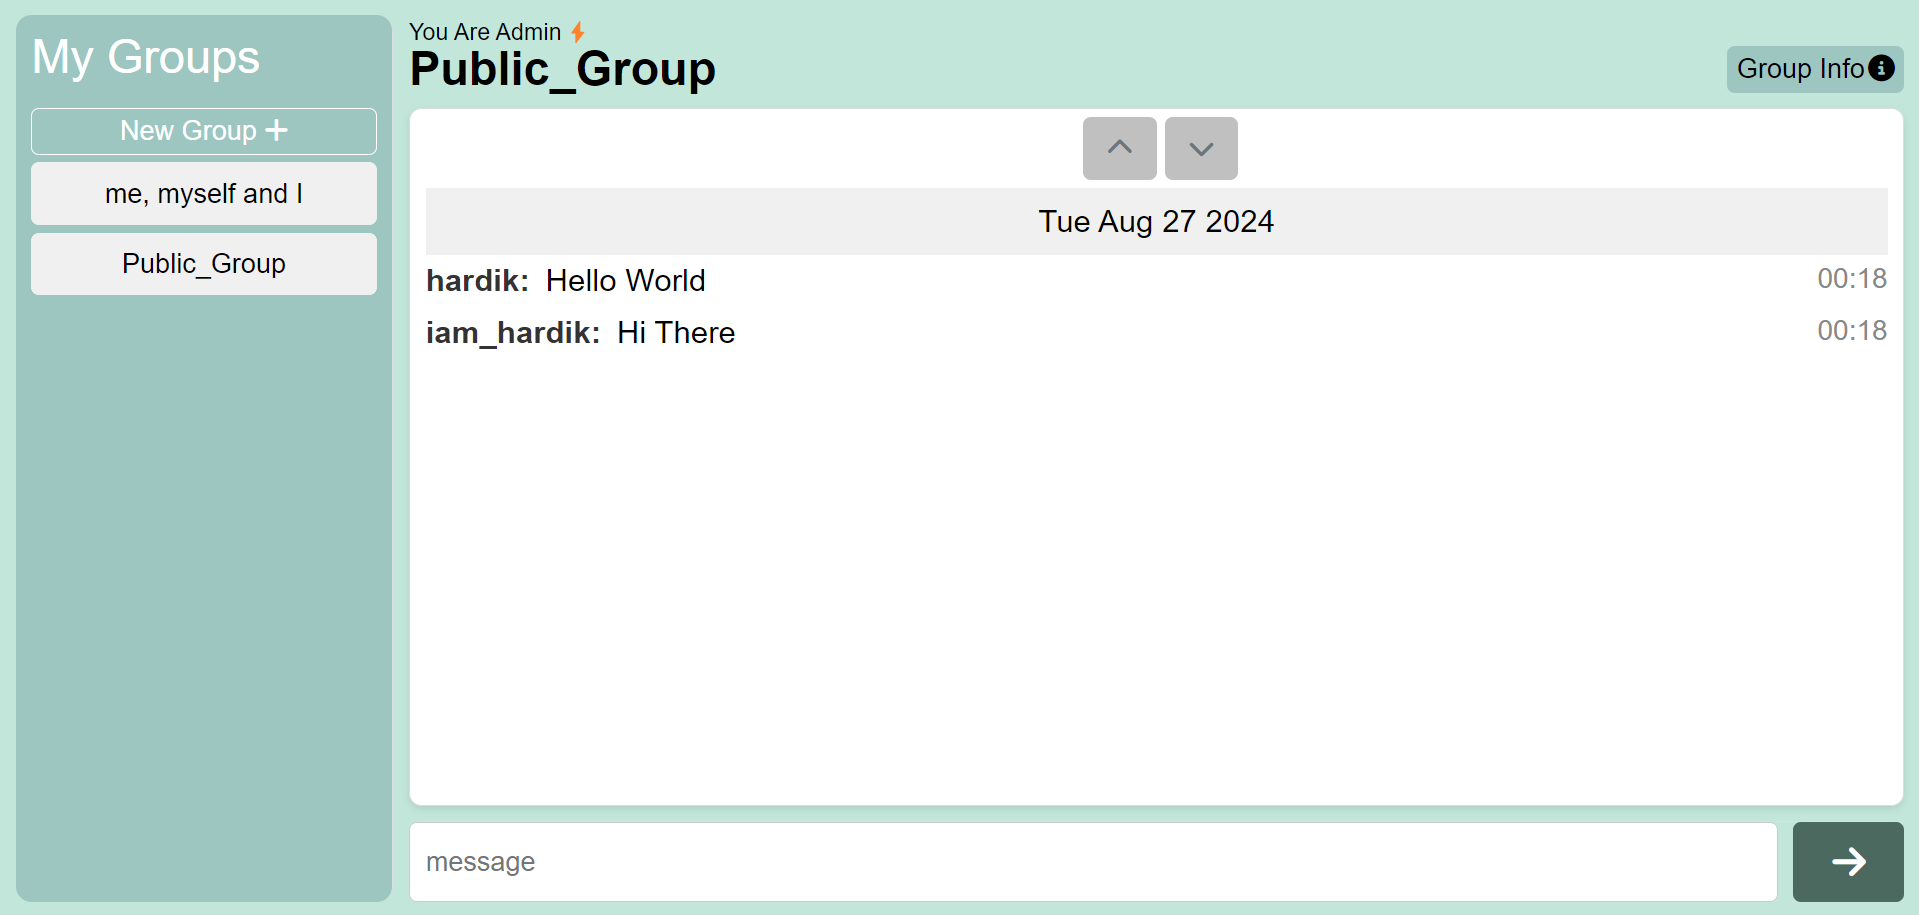
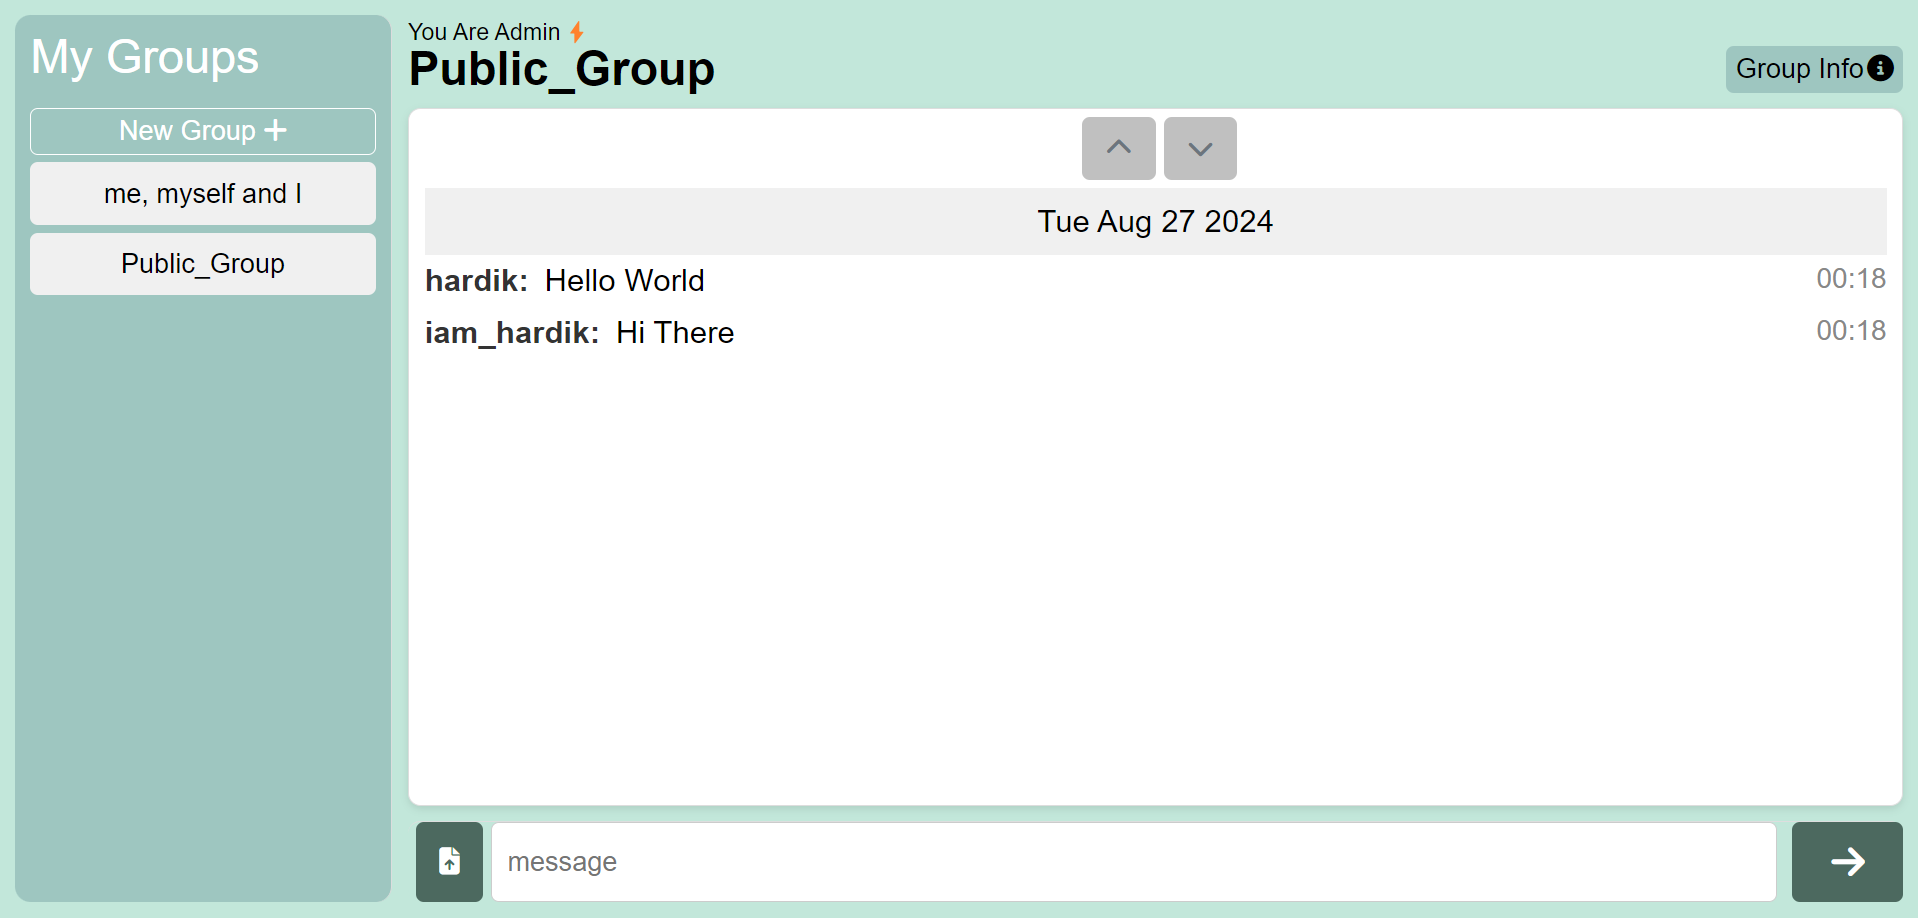
s3 upload functionality for multimedia chat aws-prod

diff --git a/views/chat_views/chat.js b/views/chat_views/chat.js
@@ -240,11 +240,22 @@ function display_messages(messages){
         const time = message.created_at.slice(-5)//extracting only time
         const message_div = document.createElement('div')
         message_div.id = 'message'
-        message_div.innerHTML = `
+
+        // Check if it's a URL
+        if(is_s3_url(message.message)){
+            const media_type = get_media_type(message.message)
+            message_div.innerHTML = `
+                <span class="username">${message.username}: </span>
+                <span class="text"><a href=${message.message} rel="noopener noreferrer" target="_blank">${media_type}</a></span>
+                <span class="timestamp">${time}</span>
+            `
+        }else{
+            message_div.innerHTML = `
                 <span class="username">${message.username}: </span>
                 <span class="text">${message.message}</span>
                 <span class="timestamp">${time}</span>
             `
+        }
         chat_container.appendChild(message_div)
     })
 }
@@ -298,4 +309,76 @@ function handle_message_submit(event){
 
     //clear the text box
     document.getElementById('message').value = ''
+}
+
+function is_s3_url(message){
+    // Regex pattern to match S3 URLs
+    const s3_url_pattern = /^https:\/\/s3\.[a-z0-9.-]+\.amazonaws\.com\/.+/
+    
+    // Check if the message matches the S3 URL pattern
+    return s3_url_pattern.test(message)
+}
+
+function get_media_type(url){
+    const extension = url.split('.').pop().toLowerCase()
+    if(['jpg', 'jpeg', 'png', 'gif'].includes(extension)){
+      return 'image'
+    }else if (['mp4', 'webm', 'ogg'].includes(extension)){
+      return 'video'
+    }else if (['mp3', 'wav', 'ogg'].includes(extension)){
+      return 'audio'
+    }
+    return 'unknown'
+}
+
+document.getElementById('upload-file').addEventListener('click', function(){
+    document.getElementById('file_input').click()
+})
+
+// checking for file upload
+const file_input = document.getElementById('file_input')
+file_input.addEventListener('change', handle_file_change)
+
+function handle_file_change(){
+    if(file_input.files.length > 0){
+        const file = file_input.files[0]
+        upload_file(file)
+        .then(file_url=>{
+            socket.send(JSON.stringify({ file_url: file_url }))
+        })
+        .catch(err => console.error('Error uploading file:', err))
+    }
+}
+
+function upload_file(file){
+    const groupId = JSON.parse(localStorage.getItem('group_details')).id 
+    const form_data = new FormData()
+    form_data.append('file', file)
+
+    return fetch(`http://13.233.233.15:3000/upload-file?groupId=${groupId}`, {
+        method: 'POST',
+        headers: {
+            'Authorization': localStorage.getItem('token')
+        },
+        body: form_data
+    }).then(response=>{
+        // Check if response status is successful
+        if(response.ok){
+            return response.json() // Parse JSON response
+        }else{
+            // Handle different response statuses
+            return response.json().then(error=>{
+                throw { status: response.status, ...error } // Throw an error with status code and message
+            })
+        }
+    }).then(data=>{
+        fetch_messages()
+    }).catch(err=>{
+        if(err.status === 500){
+            alert("Server Error, Error Code: " + err.status)
+        }else{
+            alert("An unexpected error occurred")
+        }
+        console.log(err)
+    })
 }

diff --git a/index.js b/index.js
@@ -23,6 +23,67 @@ const server = http.createServer(app)
 // Set up WebSocket server
 const wss = new WebSocket.Server({ server })
 
+const multer = require('multer')
+const AWS = require('aws-sdk')
+const fs = require('fs')
+const { verify_jwt_token } = require('./util/jwt')
+const get_date_time = require('./util/date_time_now')
+const { post_message_service } = require('./services/chat_service')
+require('dotenv').config()
+
+// Configure multer for file uploads
+const upload = multer({ dest: 'uploads/' }) // Temporarily save files to 'uploads/' folder
+
+// Configure AWS S3
+const s3 = new AWS.S3({
+    accessKeyId: process.env.AWS_ACCESS_KEY_ID,
+    secretAccessKey: process.env.AWS_ACCESS_SECRET_KEY,
+})
+
+app.post('/upload-file', upload.single('file'), (req, res) => {
+    const userId = verify_jwt_token(req.headers.authorization)
+    const file = req.file
+    if (!file) {
+        return res.status(400).send({ error : 'No file uploaded.'})
+    }
+
+    // Upload to S3
+    const fileStream = fs.createReadStream(file.path)
+    const uploadParams = {
+        Bucket: process.env.BUCKET,
+        Body: fileStream,
+        Key: file.originalname // or a unique key for each file
+    }
+
+    s3.upload(uploadParams, async (err, data) => {
+        if (err) {
+            console.error('Error uploading file:', err)
+            return res.status(500).send('Error uploading file.')
+        }
+
+        // Remove the file from local storage after upload
+        fs.unlinkSync(file.path)
+
+        const date_time = get_date_time()
+
+        const data_to_insert = {
+            message: data.Location,
+            username: null,
+            created_at: date_time,
+            userId: userId,
+            groupId: req.query.groupId
+        }
+
+        // Store the url in db
+        const result = await post_message_service(data_to_insert)
+        if(result){
+            res.status(201).send(JSON.stringify(result))
+        }else{
+            res.status(500).send(JSON.stringify(result.error))
+        }
+    })
+})
+
 wss.on('connection', (ws)=>{
     console.log('A user connected')
 

diff --git a/views/chat_views/chat_space.html b/views/chat_views/chat_space.html
@@ -16,6 +16,8 @@
             <div class="chat-container" id="chat-container"></div>
             <div class="form-container" id="form-container">
                 <form id="message-form">
+                    <input id="file_input" type="file" style="display: none" accept="image/*,video/*,audio/*">
+                    <button type="button" id="upload-file"><i class="fa-solid fa-file-arrow-up"></i></button>
                     <input id="input_message" name="message" type="text" placeholder="message">
                     <button type="submit" onsubmit="handle_message_submit(event)"><i class="fa-solid fa-arrow-right" style="padding: 6px 15px; font-size: 24px"></i></button>
                 </form>

diff --git a/views/chat_views/styles.css b/views/chat_views/styles.css
@@ -141,6 +141,10 @@ body {
     margin-left: 5px;
 }
 
+#upload-file {
+    padding: 15px;
+}
+
 .form-container button:hover {
     background-color: #364b44;
 }
